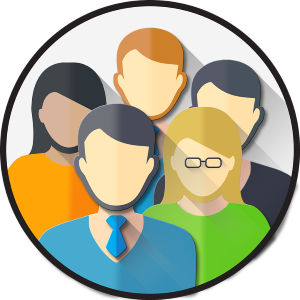
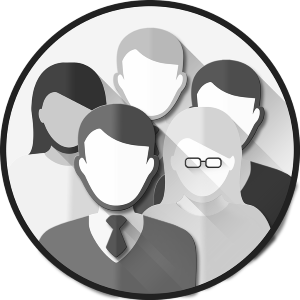
Update: cadastro e login b&w

diff --git a/_css/style.css b/_css/style.css
@@ -6,7 +6,7 @@
     text-align: center;
     padding-top: 40px;
     padding-bottom: 40px;
-    background-color: #e6ecf0;
+    background-color: #dfdfdf;
 }
 
 .login
@@ -19,12 +19,12 @@
 
 .login-box 
 {
-    margin-bottom: 1rem;
+    margin-bottom: 15px;
     height: auto;
     padding: 10px;
     font-size: 16px;
     border: 1px solid #ced4da;
-    border-radius: 0.25rem;
+    border-radius: 5px;
 }
 
 #aLogin
@@ -33,8 +33,7 @@
     text-decoration: none;
     color: #0062cc;
     font-size: 16pt;
-    padding: 10px;
-    margin-top: -13px;
+    padding: 0px 10px;
 }
 
 #aLogin:hover
@@ -48,11 +47,10 @@
     text-align: center;
     vertical-align: middle;
     border: 1px solid transparent;
-    margin-top: 0.3cm;
-    padding: 0.25rem 2rem;
-    font-size: 1.3rem;
+    padding: 4px 35px;
+    font-size: 16pt;
     line-height: 1.5;
-    border-radius: 0.4rem;
+    border-radius: 6px;
     color: #fff;
     background-color: #007bff;
     border-color: #007bff;
@@ -63,44 +61,6 @@
     color: #fff;
     background-color: #0069d9;
     border-color: #0062cc;
-}
-
-.formulario
-{
-    margin-bottom: 1rem;
-}
-
-.formulario-estilo 
-{
-    width: 10cm;
-    height: 0.7cm;
-    padding: 0.375rem 0.75rem;
-    font-size: 1rem;
-    border: 1px solid #ced4da;
-    border-radius: 0.25rem;
-}
-
-.formulario-selecao
-{
-    color: grey;
-    width: 10.7cm;
-    height: 1.1cm;
-    padding: 0.375rem 1.75rem 0.375rem 0.75rem;
-    font-size: 1rem;
-    border: 1px solid #ced4da;
-    border-radius: 0.25rem;
-}
-  
-.formulario-radio
-{
-    margin-top: 1rem;
-    font-weight: bold;
-}
-
-.formulario-checkbox
-{
-    margin-top: 5px;
-    margin-bottom: 10px;
 }
 
 /* FIM login
@@ -150,4 +110,58 @@ body {
     width: 18%;
     float:left;
 }
+
 /* FIM paginaPrincipal */
+
+/* cadastroUsuario */
+
+#imgCadastro
+{
+    width: 20%;
+}
+
+.formulario
+{
+    margin-bottom: 10px;
+}
+
+.formulario-estilo 
+{
+    width: 10cm;
+    height: 0.7cm;
+    padding: 7px 15px;
+    font-size: 12pt;
+    border: 1px solid #ced4da;
+    border-radius: 5px;
+}
+
+.formulario-selecao
+{
+    color: grey;
+    width: 10.8cm;
+    height: 1.1cm;
+    padding: 7px 35px 7px 12px;
+    font-size: 12pt;
+    border: 1px solid #ced4da;
+    border-radius: 5px;
+}
+  
+.formulario-radio
+{
+    margin-top: 20px;
+    font-weight: bold;
+}
+
+.formulario-checkbox
+{
+    margin-top: 10px;
+    margin-bottom: 10px;
+}
+
+#btnVolta
+{
+    text-decoration: none;
+    color: #fff;
+}
+
+/* FIM cadastroUsuario */

diff --git a/cadastrarUsuario.html b/cadastrarUsuario.html
@@ -9,8 +9,8 @@
         <link href="_css/style.css" rel="stylesheet">
     </head>
 
-    <body>
-        <img src="_img/cadastro.png">
+    <body id="bodyLogin">
+        <img id="imgCadastro" src="_img/cadastro.png">
         <h1>Cadastro de Usuários</h1>
         <form>
             <div class="formulario">
@@ -92,11 +92,9 @@
                     <input type="password" class="formulario-estilo" placeholder="Senha">
             </div>
             <div>
-                <a>
-                    <button type="submit" class="botao">Cancelar</button>
-                    <button type="submit" class="botao">Limpar</button>
-                    <button type="submit" class="botao">Cadastrar</button>
-                </a>
+                <button type="submit" class="botao"><a id="btnVolta" href="index.html">Cancelar</a></button>
+                <button type="submit" class="botao">Limpar</button>
+                <button type="submit" class="botao">Cadastrar</button>
             </div>
         </form>
     </body>
